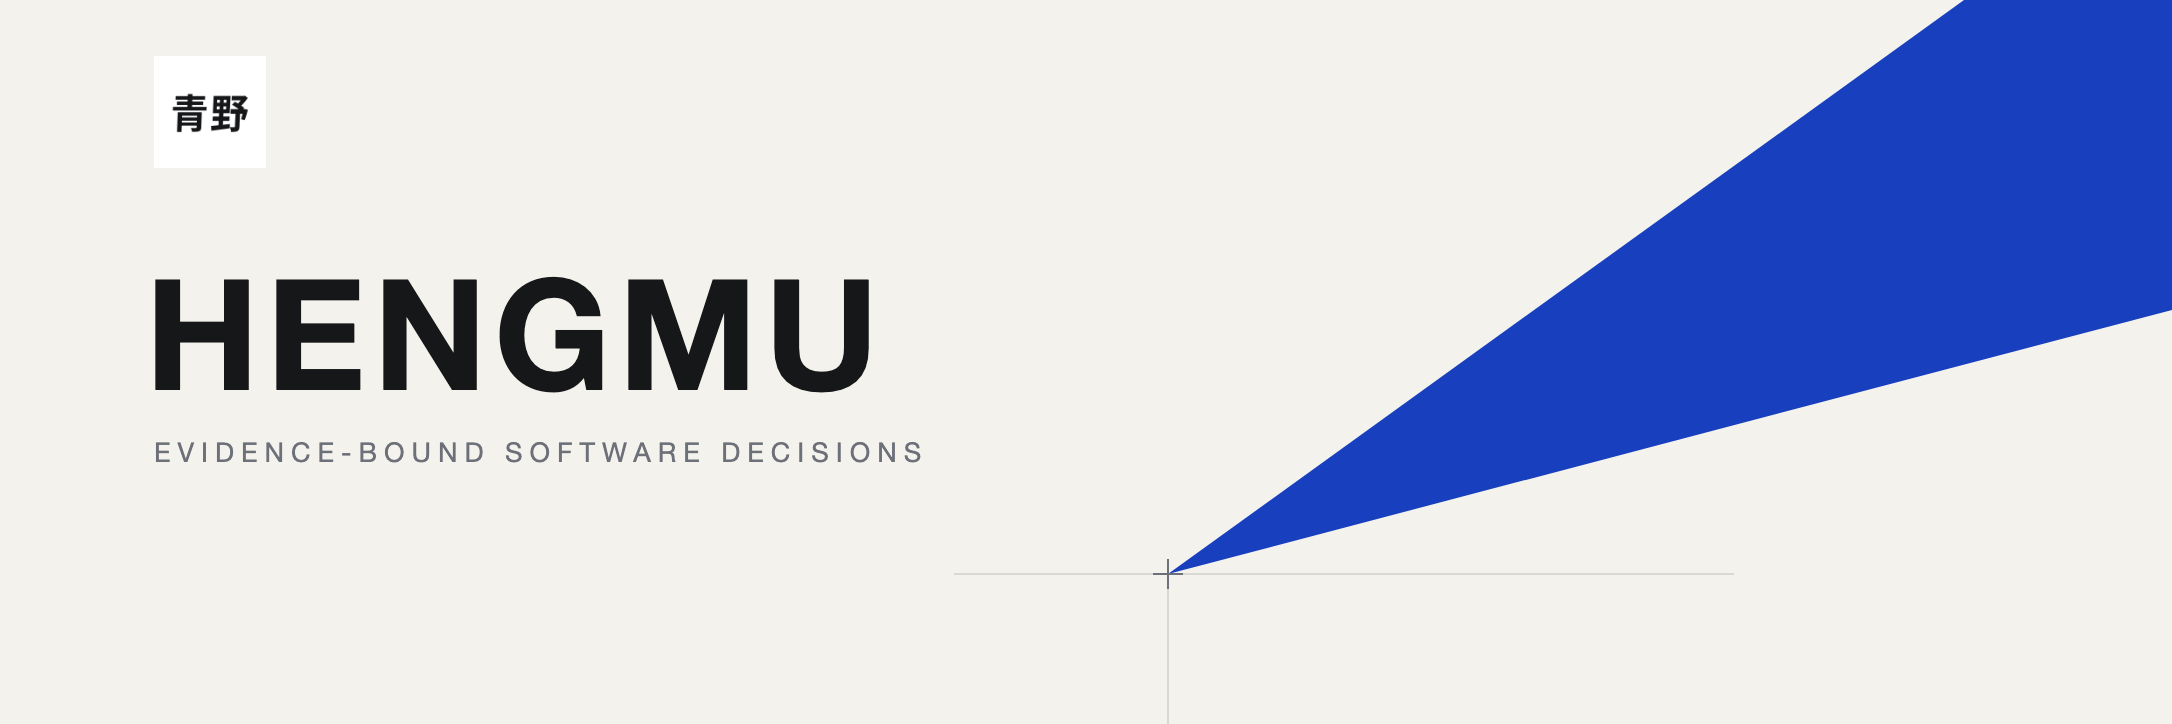
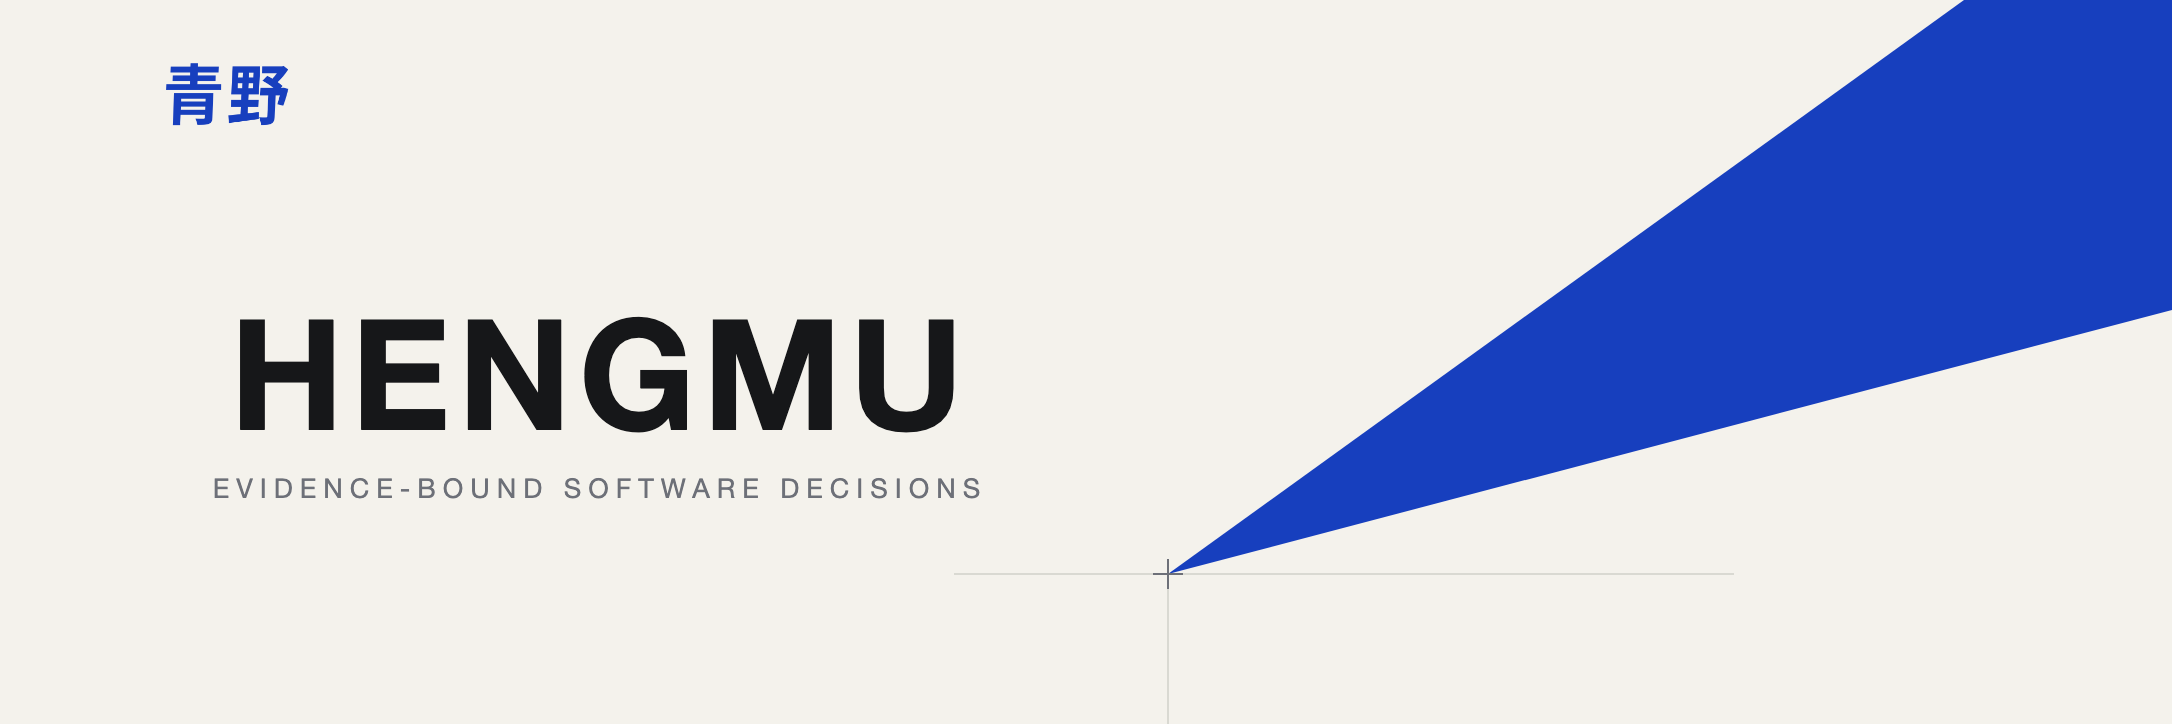
fix: use official Qingye accent identity

Changed region(s): [[0.0617, 0.3646, 0.4627, 0.6989], [0.0617, 0.0912, 0.1542, 0.1823]]

diff --git a/docs/assets/brand/README.md b/docs/assets/brand/README.md
@@ -12,6 +12,7 @@ editions.
 | Asset | English | 简体中文 | Formats |
 | --- | --- | --- | --- |
 | 青野 pure-white primary logo | `qingye-logo-primary.*` | `qingye-logo-primary.*` | SVG, PNG |
+| 青野 blue wordmark | `qingye-wordmark-blue.*` | `qingye-wordmark-blue.*` | SVG, PNG |
 | Project icon | `en/hengmu-icon.*` | `zh-CN/hengmu-icon.*` | SVG, PNG |
 | Project banner | `en/hengmu-banner.*` | `zh-CN/hengmu-banner.*` | SVG, PNG |
 | README editorial figures | `../../../assets/hengmu-readme-illustrations/en/` | `../../../assets/hengmu-readme-illustrations/zh-CN/` | PNG |
@@ -25,8 +26,10 @@ and diagrams localize all visible text.
 
 - Source of truth: `liyanqing90/qingye-brand`
 - Asset baseline: `v1.1 Refined`
-- Wordmark source: `source/logo/wordmark-primary.svg`
-- Wordmark source blob: `7b1b3c3c3b3e57fbfac7685dfbae0939a1d6cce7`
+- Pure-white logo source: `source/avatar/avatar-primary-accent.svg`
+- Pure-white logo source blob: `1e49ff156820f96463e02438b9321eeeec691275`
+- Blue wordmark source: `source/logo/wordmark-blue.svg`
+- Blue wordmark source blob: `82fee6a2c6de87e9ff586c30c219d5e1bc6356c2`
 - Brand idea: 理性结构中的持续进化
 - Brand proposition: 在不确定中，持续构建。
 - 青野 ink: `#161719`
@@ -35,13 +38,19 @@ and diagrams localize all visible text.
 - Neutral gray: `#6D7078`
 - Hairline: `#D9D9D2`
 
-`qingye-wordmark.svg` is the unmodified official wordmark source.
-`qingye-logo-primary.svg` places those exact vector paths on the brand's pure
-white token and uses the official avatar transform (`translate(102 300)
-scale(0.72)`). `qingye-logo-primary.png` is its deterministic 1024 px export.
-Both localized banners consume this white-ground asset; they do not typeset a
+`qingye-wordmark.svg`, `qingye-wordmark-blue.svg`, and
+`qingye-logo-primary.svg` vendor the official vector content without changing
+its shapes. The PNG files are deterministic exports. Localized banners use the
+blue horizontal wordmark; the square, pure-white accent avatar remains
+available for repository and package surfaces. They do not typeset a
 Latin-script substitute or reuse the textured social export. Do not redraw,
 rotate, restack, or alter the official wordmark.
+
+The current upstream `source/logo/wordmark-accent.svg` is intentionally not
+vendored: its visible `野` path contains anomalous coordinates (`510.256` and
+`5187.67`) that distort the rendered wordmark. The valid official
+`avatar-primary-accent.svg` provides the same restrained blue accent for the
+square logo.
 
 Hengmu's display type follows one neutral sans-serif system across locales:
 PingFang SC (with system sans fallbacks) for Chinese and Helvetica Neue (with
